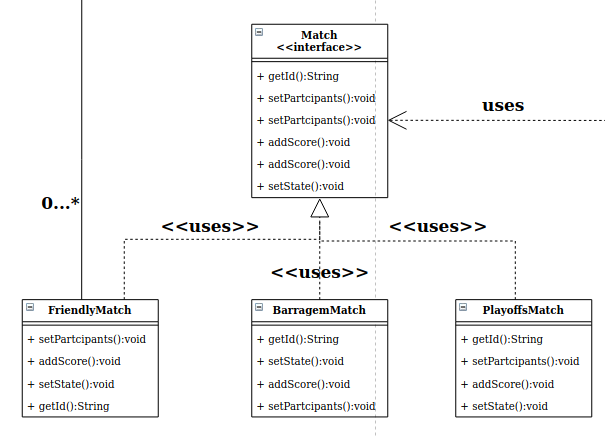
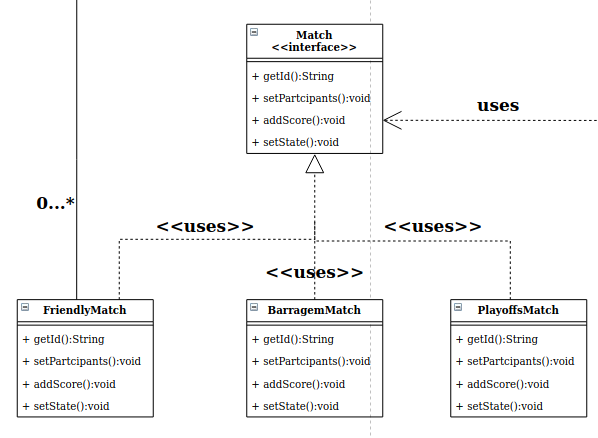
Correçao na imagem do padrao strategy.

Changed region(s): [[0.0, 0.0, 0.8729, 0.9839], [0.7525, 0.656, 0.9933, 0.9839], [0.7826, 0.2087, 1.0, 0.2982]]

diff --git a/docs/padroesProjeto/gofs_comportamentais.md b/docs/padroesProjeto/gofs_comportamentais.md
@@ -57,7 +57,7 @@ A ideia de se utilizar o padrão comportamental Strategy foi para abstrair a ló
 ### Aplicação no projeto
 
 <p align = "justify">
-No diagrama de classes, foi implementada uma interface Match que contém métodos comuns a todos os tipos de partida. Porém, devido as diferenças entre cada torneio e suas partidas, foi criada uma classe por partida diferente, e cada classe implementa os métodos da interface Match que forem necessários em seu contexto. A aplicação do padrão Strategy contribuiu fortemente para a manutenabilidade do sistema, além de permitir que o mesmo se expanda com facilidade no futuro. 
+No diagrama de classes, foi implementada uma interface Match que contém métodos comuns a todos os tipos de partida. Porém, devido as diferenças entre cada torneio e suas partidas, foi criada uma classe por partida diferente, e cada classe implementa os métodos da interface Match. A aplicação do padrão Strategy contribuiu fortemente para a manutenabilidade do sistema, além de permitir que o mesmo se expanda com facilidade no futuro. 
 </p>
 
 ![ Aplicação de Strategy ](../assets/Gof/strategy.png)
